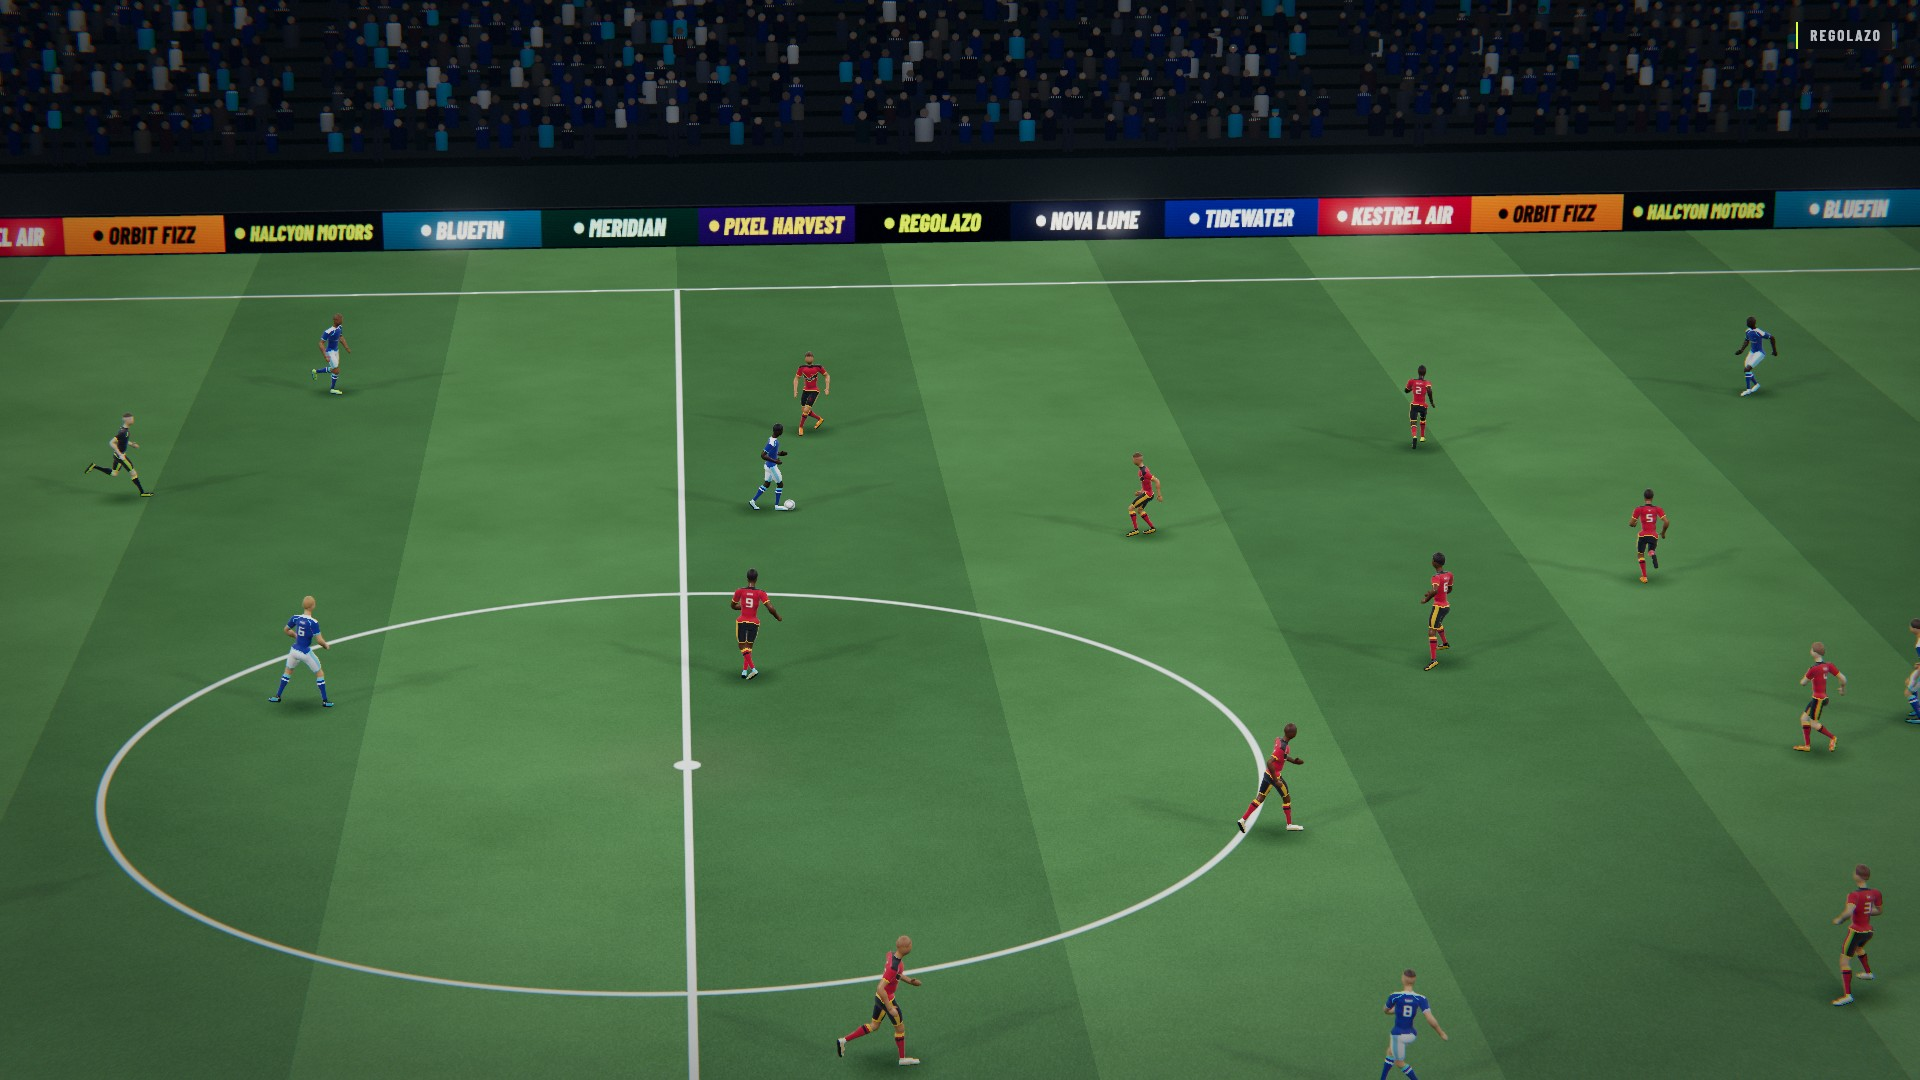
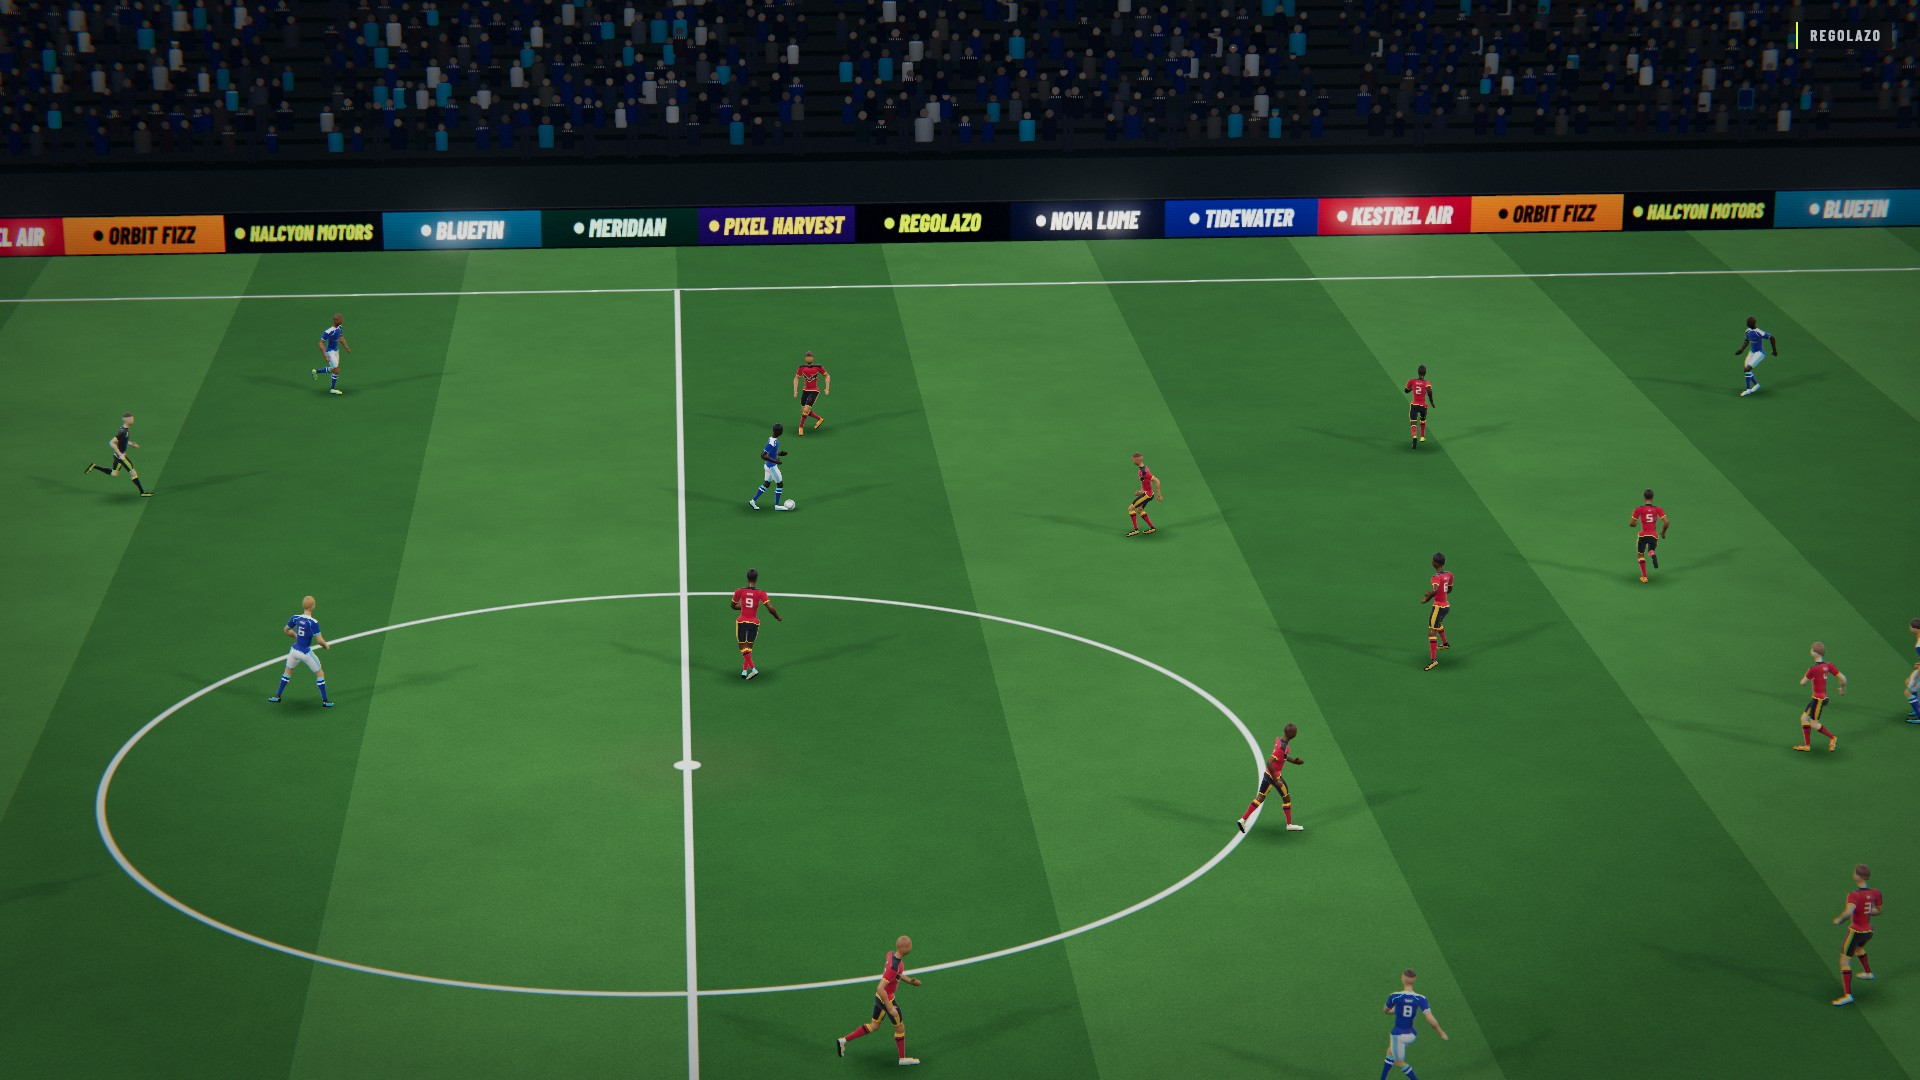
Pitch: rough, weakly specular turf so the far corner no longer turns white
From the low broadcast angle the far right corner mirrored a floodlight bank:
the grass was a standard dielectric at roughness 0.36-0.62 ('fully wet'),
which reflects close to 100 % at grazing angles, plus the bright lamp ring of
the scene environment. Measured on the user's frame: corner (190, 197, 193)
vs (87, 123, 86) mid-pitch, unchanged by turning off bloom, DOF, grade, fog or
the material's envMapIntensity. Turf is now roughness 0.76-0.9 with
MeshPhysical specularIntensity 0.35 (scales F0 and grazing F90 for direct and
environment light) and envMapIntensity 0.35.

New GPU test renders only the pitch from the broadcast camera and requires
< 5 % near-white pitch pixels; it fails on the old values (29-31 %) and passes
now. Visual baselines and reference screenshots re-captured.

Changed region(s): [[0.3438, 0.7333, 0.625, 1.0], [0.7188, 0.7944, 0.7812, 0.8861], [0.5938, 0.825, 0.625, 0.8556]]

diff --git a/web/src/world/pitch.ts b/web/src/world/pitch.ts
@@ -1,9 +1,12 @@
 // The pitch and its surround: mowing stripes with view-dependent grain, shader-drawn markings (anti-aliased SDF),
-// goalmouth wear, wet sheen (low roughness + environment reflections) and grass micro-bump.
+// goalmouth wear, a subtle damp sheen and grass micro-bump. Turf is rough and weakly specular: blades shadow each
+// other, so real grass never mirrors the floodlights, even at grazing angles (see GRASS_SPECULAR).
 import * as THREE from "three";
 import { HALF_L, HALF_W } from "../coords.ts";
 
 export const BOARD_X = HALF_L + 6.0;
+/** Specular strength of the turf relative to a standard dielectric (1.0). */
+export const GRASS_SPECULAR = 0.35;
 export const BOARD_Y = HALF_W + 5.0;
 
 const PARS = /* glsl */ `
@@ -81,7 +84,7 @@ void pitchSurface(vec3 wp, vec3 viewDir, out vec3 albedo, out float rough, out f
   float bladeFade = 1.0 - smoothstep(0.02, 0.09, fw);
   grass *= 1.0 + (blades - 0.5) * 0.25 * bladeFade;
   h = (blades - 0.5) * 0.0016 * bladeFade + (n2 - 0.5) * 0.003;
-  rough = mix(0.62, 0.36, uWet) + 0.14 * n1 + wear * 0.2;
+  rough = mix(0.90, 0.76, uWet) + 0.08 * n1 + wear * 0.06;
   // markings
   float d = markings(p);
   float aa = max(fwidth(d), 0.004);
@@ -111,7 +114,16 @@ vec3 pitchPerturb(vec3 surfPos, vec3 surfNorm, float h, float faceDir) {
 export function createPitch(): THREE.Mesh {
   const geo = new THREE.PlaneGeometry(150, 110, 1, 1);
   geo.rotateX(-Math.PI / 2);
-  const mat = new THREE.MeshStandardMaterial({ color: 0xffffff, roughness: 0.5, metalness: 0, envMapIntensity: 0.9 });
+  // MeshPhysical for specularIntensity, which scales both F0 and the grazing-angle F90 (direct and environment
+  // light). A plain standard material reflects ~100 % at grazing angles, which turned the far corner white where
+  // the mirror direction lines up with a floodlight bank.
+  const mat = new THREE.MeshPhysicalMaterial({
+    color: 0xffffff,
+    roughness: 0.85,
+    metalness: 0,
+    specularIntensity: GRASS_SPECULAR,
+    envMapIntensity: 0.35,
+  });
   const uniforms = { uWet: { value: 1.0 } };
   mat.userData.uniforms = uniforms;
   mat.onBeforeCompile = (shader) => {
@@ -134,7 +146,7 @@ export function createPitch(): THREE.Mesh {
         "#include <normal_fragment_maps>\n  normal = pitchPerturb(-vViewPosition, normal, pH, faceDirection);",
       );
   };
-  mat.customProgramCacheKey = () => "regolazo-pitch-v1";
+  mat.customProgramCacheKey = () => "regolazo-pitch-v2";
   const mesh = new THREE.Mesh(geo, mat);
   mesh.receiveShadow = true;
   mesh.name = "pitch";

diff --git a/web/e2e/visual.spec.ts b/web/e2e/visual.spec.ts
@@ -75,3 +75,41 @@ test("recording after other playback: labels identical (images may differ in a f
   const c = await record(other, 10);
   expect(a.labels).toEqual(c.labels);
 });
+
+// The turf is rough and weakly specular: from the low broadcast angle the far corner used to mirror a floodlight
+// bank and turn white. Render only the pitch and measure the share of near-white (min channel > 150) pitch pixels;
+// painted lines are legitimately white but cover only a few percent of the frame.
+for (const t of [T0 + 13.5, T0 + 15.0, T0 + 6.4]) {
+  test(`pitch does not wash out under the floodlights (broadcast, t=${(t - T0).toFixed(1)})`, async ({ page }) => {
+    await page.goto("/?record=1&w=1280&h=720");
+    await page.waitForFunction(() => document.body.dataset.ready === "1", null, { timeout: 90_000 });
+    const share = await page.evaluate((time) => {
+      const r = window.regolazo!;
+      r.setClean(true);
+      r.setCamera("broadcast", null);
+      r.jumpTo(time, 2.5);
+      const scene = r.app.scene;
+      const hidden = scene.children.filter((o) => o.visible && o.name !== "pitch" && o.name !== "lighting");
+      for (const o of hidden) o.visible = false;
+      r.app.render();
+      const c = r.app.renderer.domElement;
+      const cx = document.createElement("canvas");
+      cx.width = c.width;
+      cx.height = c.height;
+      const ctx = cx.getContext("2d")!;
+      ctx.drawImage(c, 0, 0);
+      const d = ctx.getImageData(0, 0, c.width, c.height).data;
+      let pitch = 0;
+      let white = 0;
+      for (let i = 0; i < d.length; i += 16) {
+        const [rr, gg, bb] = [d[i]!, d[i + 1]!, d[i + 2]!];
+        if (rr + gg + bb < 40) continue; // background (everything but the pitch is hidden)
+        pitch++;
+        if (Math.min(rr, gg, bb) > 150) white++;
+      }
+      for (const o of hidden) o.visible = true;
+      return white / Math.max(1, pitch);
+    }, t);
+    expect(share).toBeLessThan(0.05);
+  });
+}

diff --git a/docs/art_direction.md b/docs/art_direction.md
@@ -10,7 +10,7 @@ Reference screenshots live in [`docs/art/`](art/) and are regenerated with `npm 
 
 - **Night, under floodlights.** The sky is close to black. A ring of LED floodlights along the roof edge is the only strong light source. The pitch is the brightest surface in the frame and the stands fall off into shadow.
 - **Light haze.** A thin blue-grey haze hangs over the bowl: the far stand and roof read softer and cooler than the pitch, and the floodlight heads bloom into soft stars. The haze also hides the low detail of the background, so the eye stays on the pitch.
-- **Wet pitch.** The grass has been watered before kick-off. It is not a mirror, but it has a soft sheen: broad floodlight highlights slide across the stripes as the camera pans, and the stripes swap brightness depending on the camera's angle to the mowing direction (as real grass does).
+- **Damp pitch, not a mirror.** The grass has been watered before kick-off, but turf stays rough and weakly specular (blades shadow each other), so it never reflects the floodlights as a bright patch, even at grazing angles. The night feel comes from the stripes, which swap brightness depending on the camera's angle to the mowing direction (as real grass does), plus a faint, broad sheen. Implementation: roughness 0.76–0.9, `specularIntensity` 0.35, environment 0.35. The user flagged an earlier, glossier pitch whose far corner turned white from the broadcast camera; `e2e/visual.spec.ts` guards against that ("pitch does not wash out").
 - **Floodlight shadows.** Floodlights at four corners light the pitch; the two near-side banks cast shadows, so every player throws a faint two-way shadow away from the main camera, the signature of a night match. A tight contact shadow grounds the feet and the ball.
 - **Colour temperature.** Cool white floodlights (about 5,600 K), cooler shadows, slightly warm hospitality glass and LED boards. Kits stay saturated; the world stays restrained.
 
@@ -87,7 +87,7 @@ Flat, two-colour, geometric. One outer shape from `CrestSpec.shape` (shield, cir
 ## 6. Lighting
 
 - Four directional lights from the four corners at about 50 degrees elevation (the floodlight banks); the two near-side banks cast shadows (four shadow maps cost about 20 % of the frame budget), plus a dim cool hemisphere light (sky versus grass bounce).
-- An environment map built in code from a dark dome with a bright ring of lamp heads: it gives the grass its wet sheen and the athletes' skin, boots and hair their highlights.
+- An environment map built in code from a dark dome with a bright ring of lamp heads: it gives the athletes' skin, boots and hair their highlights, and the grass only a faint sheen.
 - ACES filmic tone mapping, bloom on HDR emissives only (floodlights, LED boards, hospitality glass), a subtle vignette, gentle cool-shadow / warm-highlight grade, very light film grain. Depth of field only on replays.
 
 ## 7. Camera language
